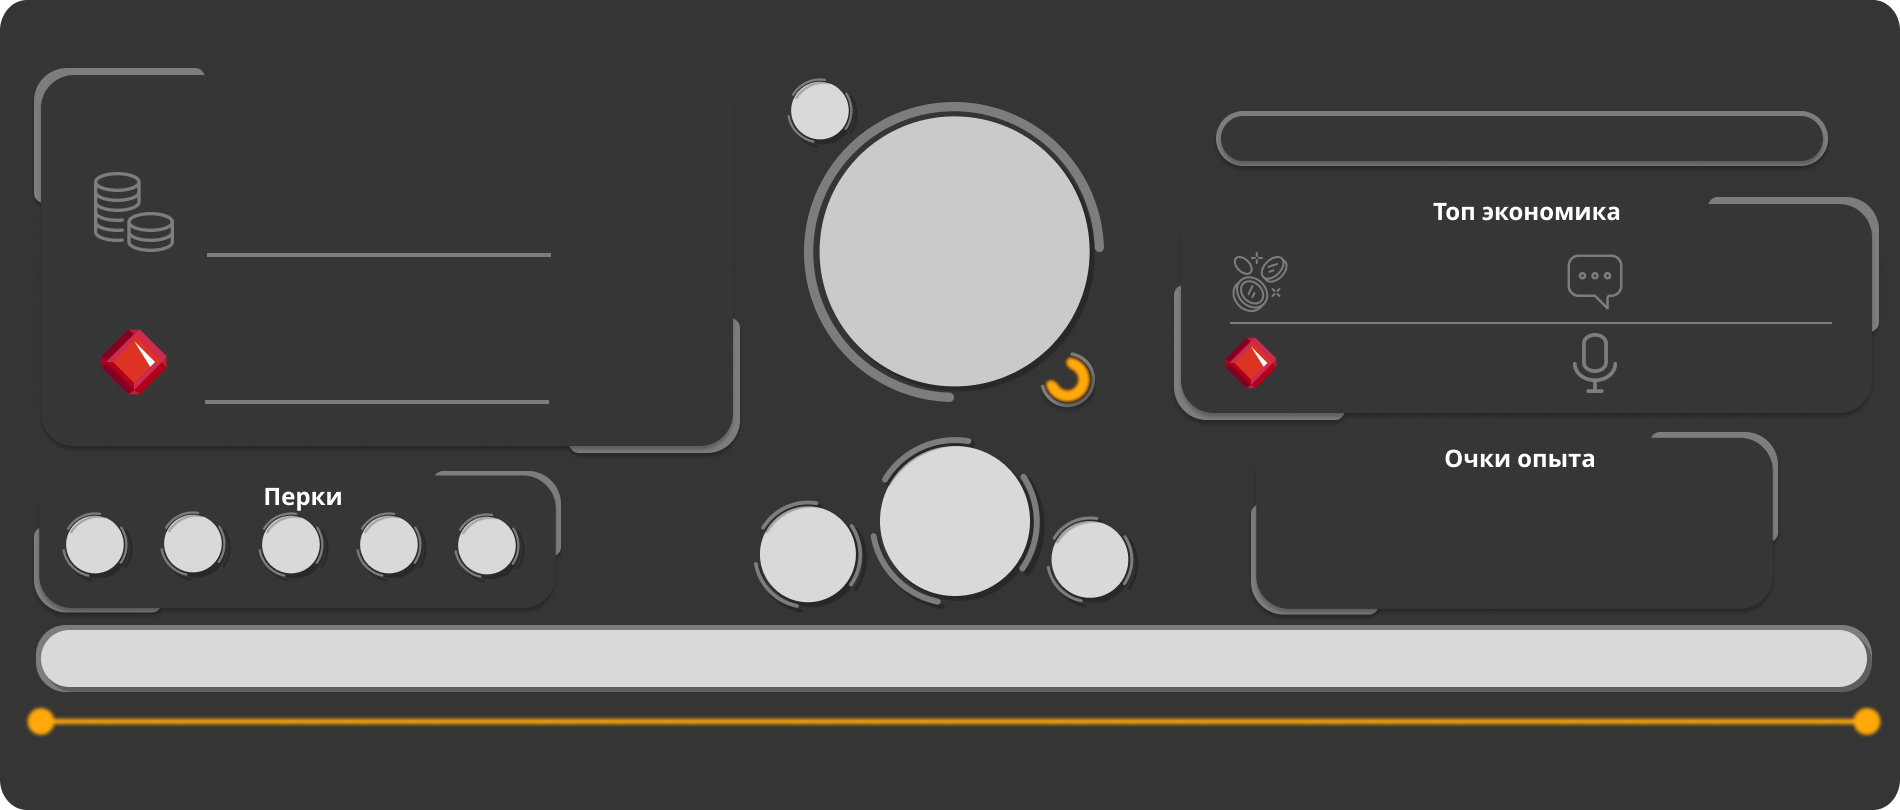
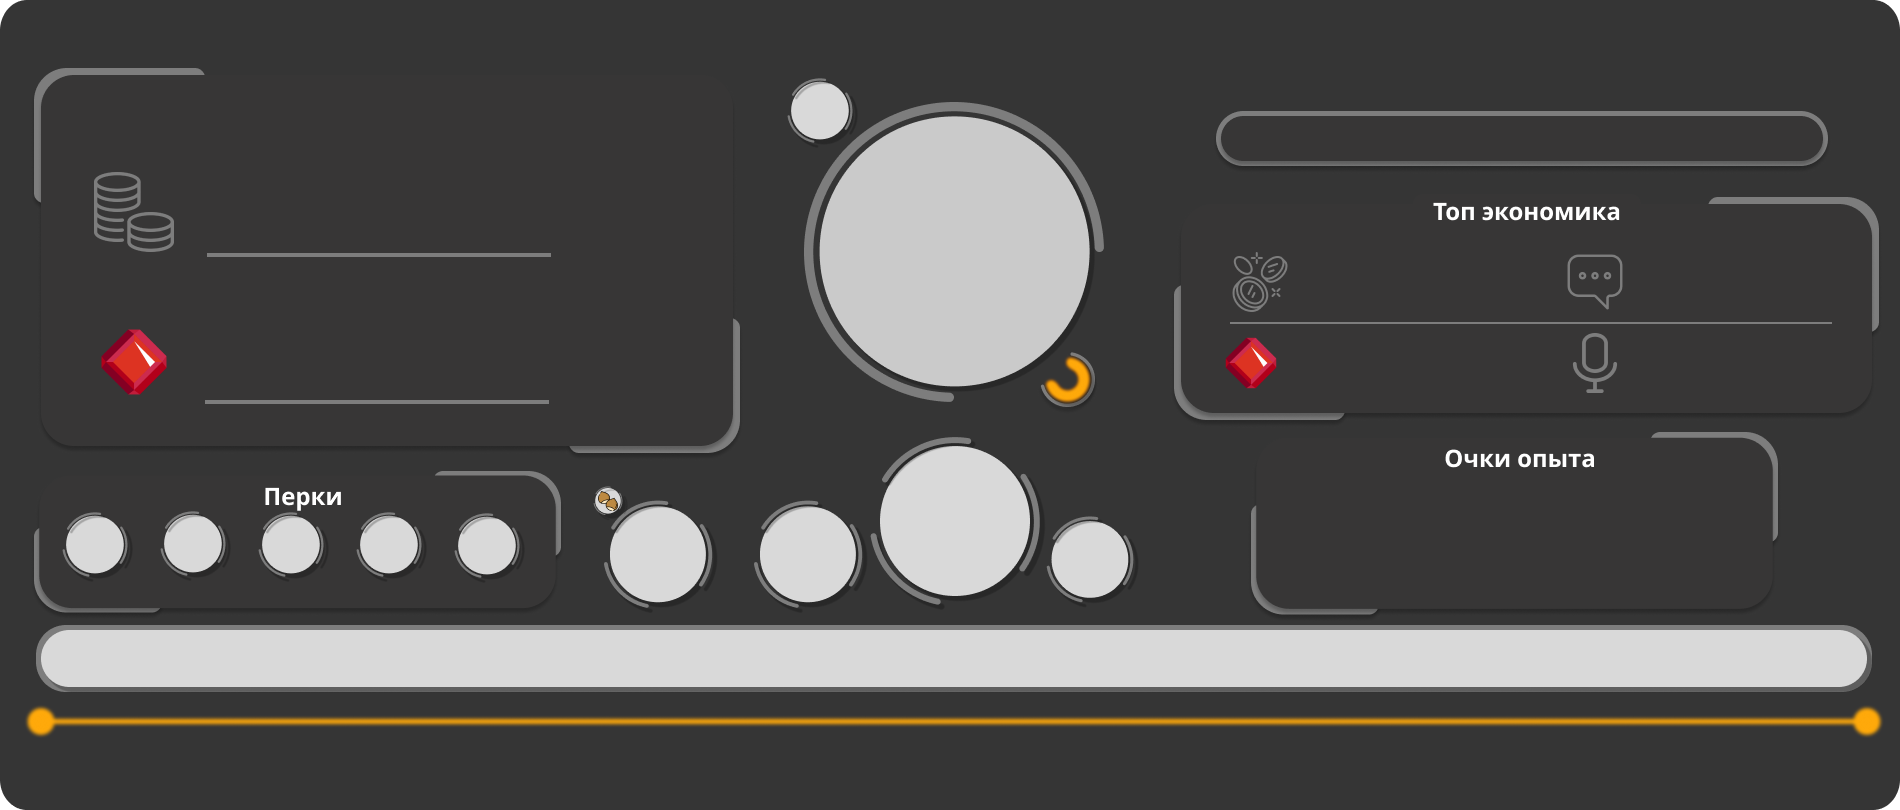
Micro update (#1.5.0)

Changed region(s): [[0.3105, 0.5864, 0.3726, 0.7407]]

diff --git a/cogs/user_card.py b/cogs/user_card.py
@@ -1,5 +1,6 @@
-import aiohttp, io, disnake, random
-from disnake.ext import commands
+import aiohttp, io, disnake, random, datetime
+
+
 from PIL import Image, ImageFont, ImageDraw
 from disnake.ext import commands
 from database.RankDatabase import RankDatabase
@@ -7,9 +8,13 @@ from database.RankDatabase import RankDatabase
 
 class Profile(commands.Cog):
     def __init__(self, bot):
+        self.START_DATE = datetime.date(2024, 9, 2)
+        self.END_DATE = datetime.date(2024, 9, 30)
+        self.CURRENCY_AMOUNT = 3  # Количество валюты за каждые 5 сообщений
         self.bot = bot
-        self.rank_db = RankDatabase(self.bot)
-        self.voice_start_times = {} 
+        self.rank_db = RankDatabase()
+        self.voice_start_times = {}
+        self.db = RankDatabase()
         self.bot_owner_id = 914812102768734258
     
     async def get_avatar(self, url: str) -> bytes: # алгоритм жля получения и чтения аватара юзера
@@ -28,7 +33,6 @@ class Profile(commands.Cog):
     async def profile(self, interaction: disnake.AppCommandInteraction, member: disnake.Member = commands.Param(default=lambda m: m.author, description='Пользователь')):
         await interaction.response.defer()
 
-                # Общий словарь для всех достижений
         achievements = {
             "bot_owner": "image/achievements/owner_bot.png",
             "server_owner": "image/achievements/owner_server.png",
@@ -40,7 +44,6 @@ class Profile(commands.Cog):
             "Toplvl": "image/achievements/Top10Score.png"
         }
         
-        # Проверка на создателя бота и владельца сервера
         if member.id == interaction.guild.owner_id and member.id == self.bot_owner_id:
             achievement_key = "bot_owner"
         elif member.id == interaction.guild.owner_id:
@@ -64,6 +67,9 @@ class Profile(commands.Cog):
         top_score = await self.rank_db.get_user_rank_by_score(member.id)
         top_messages = await self.rank_db.get_user_rank_by_messages(member.id)
         top_voice = await self.rank_db.get_user_rank_by_voice_time(member.id)
+        
+        # Ivent
+        countСhestnut = await self.rank_db.get_user_ivent_coins(member.id)
         
          # Выбор изображений для достижений
         perck_level_image = None
@@ -134,6 +140,7 @@ class Profile(commands.Cog):
         bar_length = bar_offset_x_1 - bar_offset_x
         req = new_score
         xp = score
+        
         progress = (req - xp) * 100 / req
         progress = 100 - progress
         progress_bar_length = round(bar_length * progress / 100)
@@ -154,6 +161,8 @@ class Profile(commands.Cog):
             req = f'{str(req)[:-3]}k'
         if xp >= 10000:
             xp = f'{str(xp)[:-3]}k'
+        if countСhestnut >= 1000:
+            countСhestnut = f'{str(countСhestnut)[:-3]}k'
 
         rank = f'{xp}/{req}'
         text_width = backdraw.textlength(rank, font)
@@ -165,6 +174,14 @@ class Profile(commands.Cog):
         text_width = backdraw.textlength(top, font)
         x = (88 - text_width) // 2 + 764
         backdraw.text((x, 533), top, font=font_top_lvl, fill=fill_color_lvl)
+
+
+        # Ivent
+        ivent = str(countСhestnut)
+        text_width = backdraw.textlength(ivent, font)
+        x = (88 - text_width) // 2 + 628
+        backdraw.text((x, 533), ivent, font=font_top_lvl, fill=fill_color_lvl)
+
 
         # Level text
         lvl = str(level)
@@ -211,63 +228,84 @@ class Profile(commands.Cog):
         image_file = disnake.File(img_bytes, filename=f'{member.display_name}_profile.png')
         await interaction.followup.send(file=image_file)
 
+
+    async def check_event_period(self):
+        today = datetime.date.today()
+        return self.START_DATE <= today <= self.END_DATE
+
     @commands.Cog.listener()
     async def on_message(self, message: disnake.Message):
         if message.author == self.bot.user:
             return
         if isinstance(message.channel, disnake.DMChannel):
             return
-        elif len(message.content) == 1:
+
+        if len(message.content) == 1:
             return
 
-        # Добавляем пользователя в базу данных
         await self.rank_db.add_user(message.author)
-
         level_up_result = await self.rank_db.update_level_method(message.author.id)
-        
-        if level_up_result == True:
+
+        if level_up_result:
             try:
                 user = await self.bot.fetch_user(message.author.id)
                 user_level = await self.rank_db.get_user_level(message.author.id)
                 await user.send(f"### Ваш уровень повысился до {user_level}. Поздравляем!")
-                print(f"Message sent to user {message.author.id}")  # Логирование отправки сообщения
+                print(f"Сообщение отправлено пользователю {message.author.id}")  # Логирование отправки сообщения
             except disnake.Forbidden:
-                print(f"Failed to send message to user {message.author.id}")  # Логирование ошибки отправки сообщения
+                print(f"Не удалось отправить сообщение пользователю {message.author.id}")  # Логирование ошибки
 
-            
         score_update_result = await self.rank_db.update_score(message.author.id)
 
-        # Получаем обновленные данные пользователя
         coins = await self.rank_db.get_user_coins(message.author.id)
         rubins = await self.rank_db.get_user_rubins(message.author.id)
         score = await self.rank_db.get_user_score(message.author.id)
 
-        await self.rank_db.update_message_count(message.author.id) 
-        
-        # Обновляем топовые позиции
+        await self.rank_db.update_message_count(message.author.id)
+
         rank_coins = await self.rank_db.get_user_rank_by_coins(message.author.id)
         rank_rubins = await self.rank_db.get_user_rank_by_rubins(message.author.id)
         rank_score = await self.rank_db.get_user_rank_by_score(message.author.id)
 
-        # Логируем результаты (опционально)
-        # print(f"User {message.author.id}: Level up result: {level_up_result}")
-        # print(f"User {message.author.id}: Score update result: {score_update_result}")
-        # print(f"User {message.author.id}: Coins rank: {rank_coins}")
-        # print(f"User {message.author.id}: Rubins rank: {rank_rubins}")
-        # print(f"User {message.author.id}: Score rank: {rank_score}")
+        # Обработка системы событий
+        if await self.check_event_period():
+            if len(message.content) == 2:
+                # Специальная обработка сообщений длиной 2 символа во время события
+                print("Длина содержимого сообщения 2. Специальная обработка события.")
+                return  # Или добавьте конкретную логику, если это необходимо
+
+            # Обновление валюты на основе количества сообщений
+            message_count = await self.db.get_user_message_count(message.author.id)
+            message_count += 1
+
+            if message_count % 5 == 0:
+                await self.db.update_ivent_coins(message.author.id, self.CURRENCY_AMOUNT)
+            
+        if await self.check_event_period():
+            if len(message.content) == 2:
+                return  
+            
+            message_count = await self.db.get_user_message_count(message.author.id)
+            message_count += 1
+
+            if message_count % 5 == 0:
+                await self.db.update_ivent_coins(message.author.id, self.CURRENCY_AMOUNT)
+            
+            await self.db.update_message_count(message.author.id, message_count)
+        else:
+            print('Событие еще не началось или уже закончилось.') 
 
     @commands.Cog.listener()
     async def on_voice_state_update(self, member, before, after):
         if before.channel is None and after.channel is not None:
-            # Пользователь присоединился к голосовому каналу
             self.voice_start_times[member.id] = disnake.utils.utcnow()
         elif before.channel is not None and after.channel is None:
-            # Пользователь покинул голосовой канал
             if member.id in self.voice_start_times:
                 voice_time = disnake.utils.utcnow() - self.voice_start_times[member.id]
                 minutes = int(voice_time.total_seconds() // 60)
                 await self.rank_db.update_voice_time(member.id, minutes)
                 del self.voice_start_times[member.id]
+
 
 
 def setup(bot):

diff --git a/database/RankDatabase.py b/database/RankDatabase.py
@@ -1,9 +1,9 @@
+from pickle import INT
 import aiosqlite
 import random
 
 class RankDatabase:
-    def __init__(self, bot):
-        self.bot = bot
+    def __init__(self):
         self.botDatabase = "database/fileDB/BotDDatabase.db"
 
     async def create_table_ranked(self):
@@ -17,7 +17,8 @@ class RankDatabase:
                     coins INTEGER DEFAULT 1000,
                     rubins INTEGER DEFAULT 10,
                     message_count INTEGER DEFAULT 0,
-                    voice_time INTEGER DEFAULT 0
+                    voice_time INTEGER DEFAULT 0,
+                    ivent_coin INTEGER DEFAULT 0
                 )
             """)
             await db.commit()
@@ -89,8 +90,6 @@ class RankDatabase:
             else:
                 print(f"User {user_id} not found in database")  # Логирование отсутствия пользователя
                 return False
-
-
 
 
     async def update_score(self, user_id):
@@ -230,10 +229,78 @@ class RankDatabase:
             else:
                 return None
 
-    async def update_balance(self, user_id, countCoin, countRuby):
+    async def update_balance(self, user_id, countCoin: int, countRuby: int):
         async with aiosqlite.connect(self.botDatabase) as db:
             await db.execute(
                 "UPDATE ranked SET coins = coins + ?, rubins = rubins + ? WHERE id = ?",
                 (countCoin, countRuby, user_id)
             )
             await db.commit()
+
+    async def update_coins(self, user_id, countCoin: int):
+        async with aiosqlite.connect(self.botDatabase) as db:
+            await db.execute(
+                "UPDATE ranked SET coins = coins + ? WHERE id = ?",
+                (countCoin, user_id)
+            )
+            await db.commit()
+
+    async def update_ruby(self, user_id, countRuby: int):
+        async with aiosqlite.connect(self.botDatabase) as db:
+            await db.execute(
+                "UPDATE ranked SET rubins = rubins + ? WHERE id = ?",
+                (countRuby, user_id)
+            )
+            await db.commit()
+    
+    async def update_score_admin_panel(self, user_id, countScore: int):
+        async with aiosqlite.connect(self.botDatabase) as db:
+            await db.execute(
+                "UPDATE ranked SET score = score + ? WHERE id = ?",
+                (countScore, user_id)
+            )
+            await db.commit()
+
+    async def update_coins_dek(self, user_id, countCoin: int):
+        async with aiosqlite.connect(self.botDatabase) as db:
+            await db.execute(
+                "UPDATE ranked SET coins = coins - ? WHERE id = ?",
+                (countCoin, user_id)
+            )
+            await db.commit()
+
+    async def update_ruby_dek(self, user_id, countRuby: int):
+        async with aiosqlite.connect(self.botDatabase) as db:
+            await db.execute(
+                "UPDATE ranked SET rubins = rubins - ? WHERE id = ?",
+                (countRuby, user_id)
+            )
+            await db.commit()
+    
+    async def update_score_admin_panel_dek(self, user_id, countScore: int):
+        async with aiosqlite.connect(self.botDatabase) as db:
+            await db.execute(
+                "UPDATE ranked SET score = score - ? WHERE id = ?",
+                (countScore, user_id)
+            )
+            await db.commit()
+    
+    
+    # Ivents
+    
+    async def update_ivent_coins(self, user_id, countСhestnut: int):
+        async with aiosqlite.connect(self.botDatabase) as db:
+            await db.execute(
+                "UPDATE ranked SET ivent_coin = ivent_coin + ? WHERE id = ?",
+                (countСhestnut, user_id)
+            )
+            await db.commit()
+    
+    async def get_user_ivent_coins(self, user_id):
+        async with aiosqlite.connect(self.botDatabase) as db:
+            cursor = await db.execute("SELECT ivent_coin FROM ranked WHERE id = ?", (user_id,))
+            row = await cursor.fetchone()
+            if row:
+                return row[0]
+            else:
+                return None

diff --git a/cogs/say.py b/cogs/say.py
@@ -1,0 +1,31 @@
+import disnake
+from disnake.ext import commands
+import datetime
+
+class AdminMessage(commands.Cog):
+    def __init__(self, bot):
+        self.bot = bot
+    
+    @commands.slash_command(name="say", description="Отправить сообщение от имени бота с титульником, описанием и изображением/гифкой.", dm_permission=False)
+    @commands.has_permissions(administrator=True)
+    async def send_message(self, interaction: disnake.AppCommandInteraction,
+                           title: str = commands.Param(description="Титульник сообщения"),
+                           description: str = commands.Param(description="Описание сообщения"),
+                           image_url: str = commands.Param(default=None, description="URL изображения или гифки")):
+        # Создание Embed сообщения
+        embed = disnake.Embed(title=title, description=description, color=0xFFA500)
+        
+        # Добавление изображения/гифки, если URL предоставлен
+        if image_url:
+            embed.set_image(url=image_url)
+        
+        # Добавление времени отправки в нижнюю часть
+        current_time = datetime.datetime.now().strftime("%Y-%m-%d %H:%M:%S")
+        embed.set_footer(text=f"Отправлено: {current_time}")
+
+        # Отправка сообщения
+        await interaction.response.send_message(embed=embed)
+
+# Функция для установки кода
+def setup(bot):
+    bot.add_cog(AdminMessage(bot))

diff --git a/database/LogsDatabase.py b/database/LogsDatabase.py
@@ -18,10 +18,18 @@ class LogsDatabase:
     async def insert_logs_channel(self, channel: disnake.TextChannel, guild: disnake.Guild):
         async with aiosqlite.connect(self.botDatabase) as db:
             async with db.cursor() as cursor:
-                query = '''INSERT INTO logsChanel (guildID, channelLogsID) VALUES (?, ?)'''
-                await cursor.execute(query, (guild.id, channel.id))
+                query_select = "SELECT * FROM logsChanel WHERE guildID = ?"
+                query_insert = "INSERT INTO logsChanel (guildID, channelLogsID) VALUES (?, ?)"
+                query_update = "UPDATE logsChanel SET channelLogsID = ? WHERE guildID = ?"
+
+                await cursor.execute(query_select, (guild.id,))
+                result = await cursor.fetchone()
+                if result:
+                    await cursor.execute(query_update, (channel.id, guild.id))
+                else:
+                    await cursor.execute(query_insert, (guild.id, channel.id))
                 await db.commit()
-            
+                
     async def get_log_channel(self, guild: disnake.Guild):
         async with aiosqlite.connect(self.botDatabase) as db:
             async with db.cursor() as cursor:
